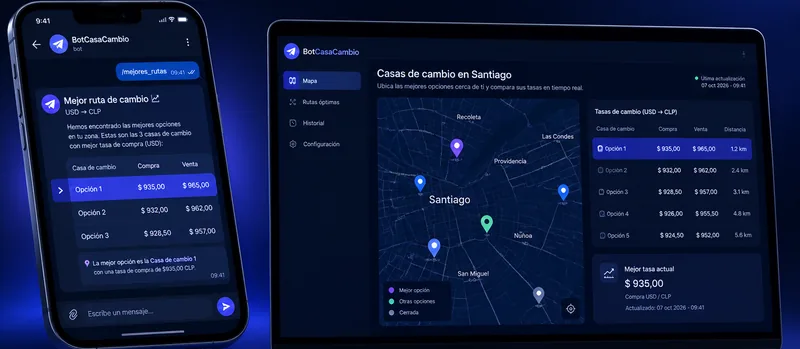
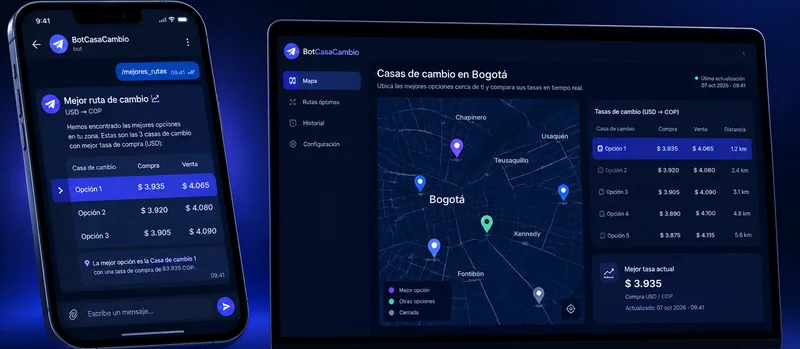
BotCasaCambio: imagen conceptual adaptada a Colombia (Bogotá, COP)
Claude-Session: https://claude.ai/code/session_019G3QgKSGDh2YFLN3ovyJB5

diff --git a/index.html b/index.html
@@ -305,7 +305,7 @@
         <div class="proyecto-cuerpo"><p class="proyecto-tipo">Web app · Gestión de negocio</p><h3>AppMaquinas</h3><p>Control de cortes, recaudo, historial y reparto de ganancias de máquinas por establecimiento. Pensada primero para el celular.</p><ul class="chips"><li>Next.js</li><li>PostgreSQL</li><li>Prisma</li></ul></div>
       </article>
       <article class="proyecto">
-        <div class="proyecto-grafico"><img src="img/proyectos/concepto-botcasacambio.webp" width="800" height="349" loading="lazy" style="object-position:center" alt="Concepto de diseño de BotCasaCambio: alerta de mejor ruta de cambio en Telegram y panel con mapa de casas de cambio"></div>
+        <div class="proyecto-grafico"><img src="img/proyectos/concepto-botcasacambio.webp" width="800" height="349" loading="lazy" style="object-position:center" alt="Concepto de diseño de BotCasaCambio: alerta de mejor ruta de cambio en Telegram y panel con mapa de casas de cambio en Bogotá"></div>
         <div class="proyecto-cuerpo"><p class="proyecto-tipo">Automatización · Finanzas · Imagen conceptual</p><h3>BotCasaCambio</h3><p>Detecta en tiempo real las mejores rutas de cambio entre casas de cambio, con alertas por Telegram y panel con mapa.</p><ul class="chips"><li>Python</li><li>FastAPI</li><li>Telegram</li></ul></div>
       </article>
       <article class="proyecto">
